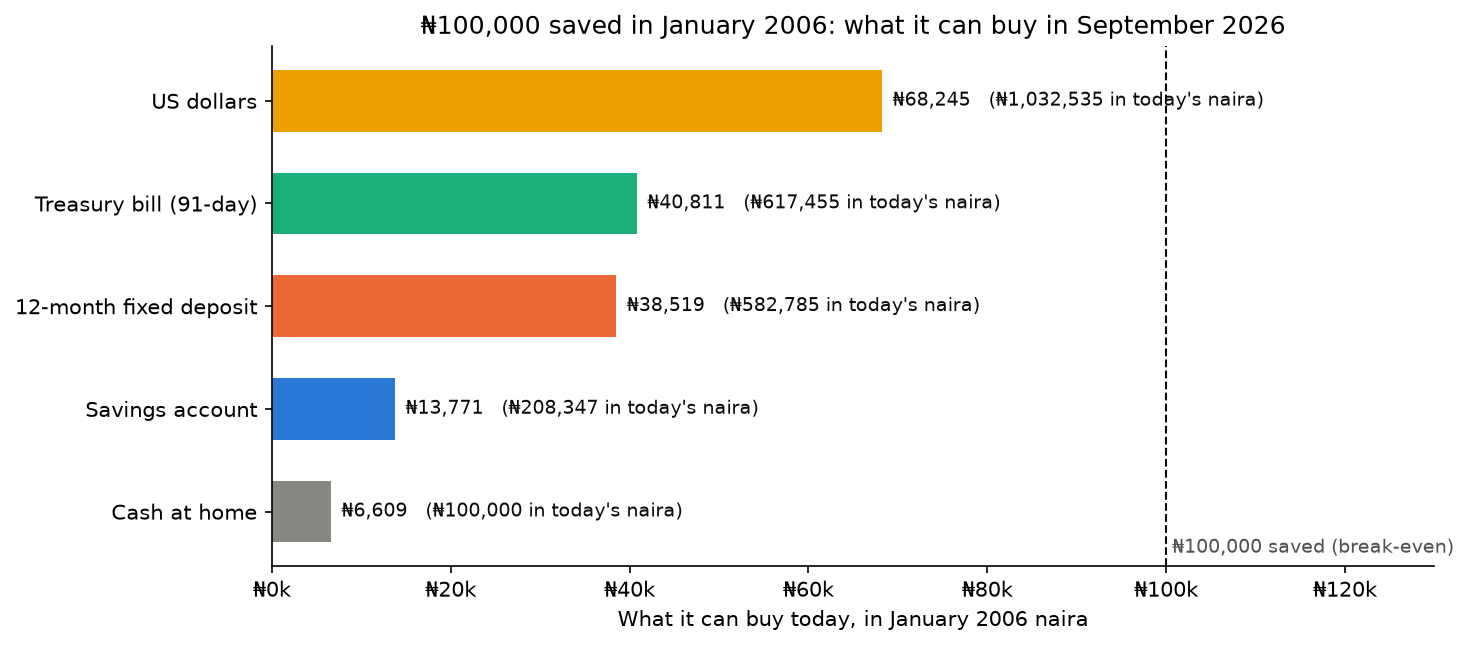
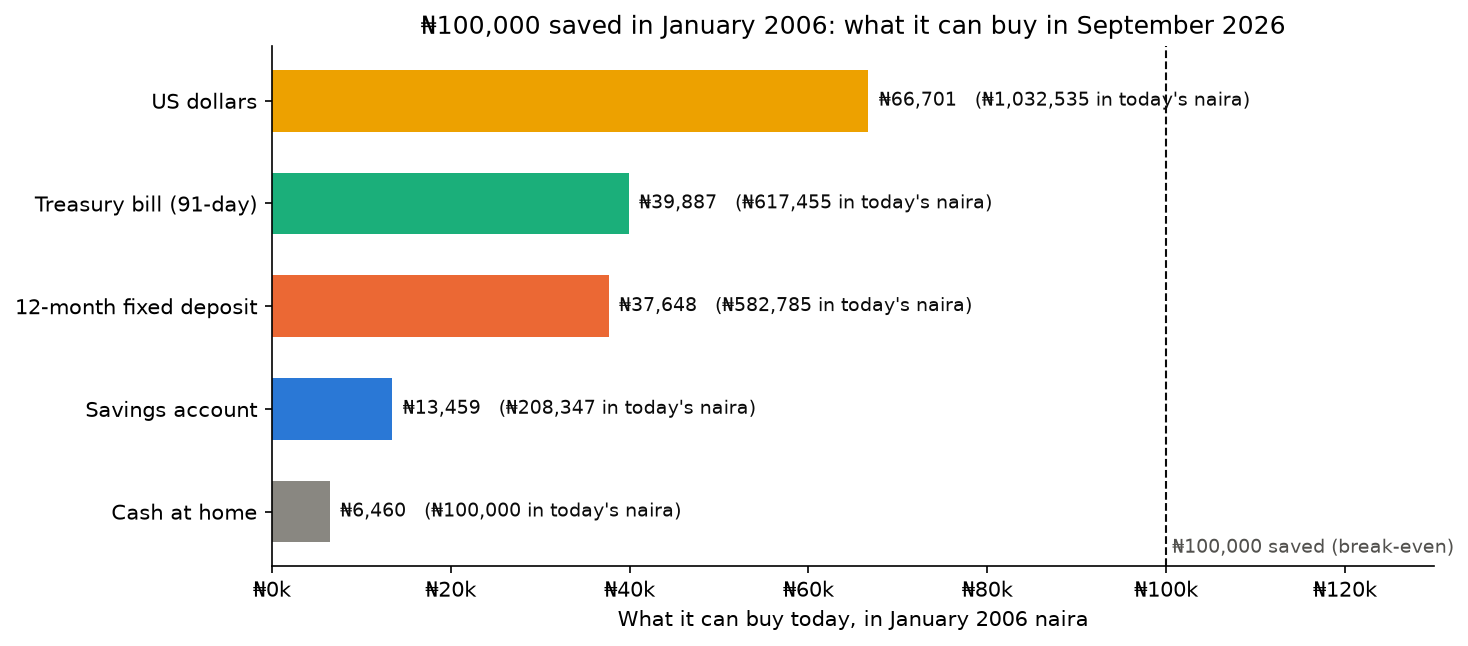
Use NBS's revised 2025 inflation (CBN feed) instead of first releases
On 15 Jan 2026 NBS published a revised CPI series correcting its 2025
rebasing, raising 2025 year-on-year inflation by about 3 points. The CBN
feed holds the revised figures, so the Phase 3 override with first-release
numbers is reverted. Only June 2025 (a copy of May in the feed) is
interpolated. Rebasing text, limitations, findings, summary, charts and
README are updated to the new numbers.

diff --git a/README.md b/README.md
@@ -17,15 +17,15 @@ and for how long.
 ## Key findings
 
 **No common way of saving kept its buying power from January 2006 to September 2026.**
-Prices rose about 15×, so you'd need about ₦1.5 million today to buy what ₦100,000 bought in 2006.
+Prices rose about 15.5×, so you'd need about ₦1.55 million today to buy what ₦100,000 bought in 2006.
 
 | ₦100,000 saved in Jan 2006 | Worth in naira (Sep 2026) | **What it can buy, in 2006 naira** | Real return per year |
 |---|---|---|---|
-| US dollars (cash) | ₦1,032,535 | **₦68,245** | −1.8% |
-| Treasury bills (91-day) | ₦617,455 | **₦40,811** | −4.2% |
-| 12-month fixed deposit | ₦582,785 | **₦38,519** | −4.5% |
-| Savings account | ₦208,347 | **₦13,771** | −9.1% |
-| Cash at home | ₦100,000 | **₦6,609** | −12.3% |
+| US dollars (cash) | ₦1,032,535 | **₦66,701** | −1.9% |
+| Treasury bills (91-day) | ₦617,455 | **₦39,887** | −4.3% |
+| 12-month fixed deposit | ₦582,785 | **₦37,648** | −4.6% |
+| Savings account | ₦208,347 | **₦13,459** | −9.2% |
+| Cash at home | ₦100,000 | **₦6,460** | −12.4% |
 
 1. **Savings paid less than inflation almost all the time.** Savings accounts had a negative
    real interest rate in **every one of 249 months**. Fixed deposits lost to inflation in 81% of
@@ -44,14 +44,14 @@ Prices rose about 15×, so you'd need about ₦1.5 million today to buy what ₦
 3. **Timing mattered, but no start month rescued a savings account.** Testing every start month
    with 1-, 3- and 5-year holds: savings accounts and cash never beat inflation. Fixed deposits beat
    it in only 1 of 189 five-year windows. Dollars beat it in 47% of five-year windows, but their
-   one-year results ranged from −29% to +160% depending only on the start month.
+   one-year results ranged from −31% to +160% depending only on the start month.
 
    ![Real return by start year and holding period](images/timing_heatmap.png)
 
-4. **The naira options never recovered.** Measured in buying power, cash fell 93% and savings
-   accounts 86% from their January 2006 starting point. Fixed deposits and T-bills peaked in 2008
-   and are still about 61–63% below that peak, 18 years later. Dollars fell 52%, took 18 years
-   to recover (Feb 2024), and have since fallen 48% again.
+4. **The naira options never recovered.** Measured in buying power, cash fell 93.5% and savings
+   accounts 86.5% from their January 2006 starting point. Fixed deposits and T-bills peaked in 2008
+   and are still about 62–64% below that peak, 18 years later. Dollars fell 52%, took 18 years
+   to recover (Feb 2024), and have since fallen 50% again.
 
    ![Worst fall from peak](images/worst_drawdown.png)
 
@@ -63,8 +63,8 @@ Prices rose about 15×, so you'd need about ₦1.5 million today to buy what ₦
    ![MPR vs the rates savers get](images/mpr_vs_rates.png)
 
 6. **Tax makes it a little worse.** With Nigeria's 10% withholding tax on interest, fixed deposits
-   keep about ₦32,500 of 2006 buying power instead of ₦38,500. The small positive real return on
-   Treasury bills since November 2025 turns slightly negative after tax.
+   keep about ₦31,800 of 2006 buying power instead of ₦37,600. The small positive real return on
+   Treasury bills since December 2025 turns slightly negative after tax.
 
 More charts are in [`images/`](images/), and every step is explained in the notebook.
 
@@ -89,14 +89,16 @@ More charts are in [`images/`](images/), and every step is explained in the note
 - **Approximate price index.** The CBN publishes inflation **rates** but no index feed, so the price
   index is built by turning each year-on-year rate into a monthly step, `(1 + yoy) ** (1/12) − 1`,
   and chaining them. It runs straight across the **January 2025 CPI rebasing** (chain-linked, not
-  restarted). A second method agrees on the 2006–2026 total within about 0.5%, but mid-period values
+  restarted). A second method agrees on the 2006–2026 total within about 0.2%, but mid-period values
   can differ by up to about 13%.
 
   ![Approximate price index](images/price_index.png)
 
-- **2025 inflation correction.** For January–November 2025 the CBN feed's inflation was about
-  3 points above the official National Bureau of Statistics (NBS) figures, and June repeated May.
-  Those 11 months were replaced with NBS figures from news reports of each release (sources below).
+- **2025 inflation revision.** The National Bureau of Statistics (NBS) rebasing in January 2025 used
+  December 2023 – November 2024 as its base period while labelling it "2024 = 100". On 15 January 2026,
+  NBS published a corrected series that raised every 2025 year-on-year rate by about 3 points (e.g.
+  November 2025: 14.45% first released, 17.33% revised). The CBN feed holds the **revised** figures,
+  which this project uses. News reports from 2025 quote the lower first releases.
 - **Official exchange rate only.** Before the June 2023 unification, many savers could only buy
   dollars on the parallel market at a weaker rate, and the official rate was often held flat for
   years. Dollar returns may be **understated**.
@@ -107,7 +109,8 @@ More charts are in [`images/`](images/), and every step is explained in the note
   from November 2025 on Treasury bills (after a 2011 exemption lapsed). It also shows a "10% every
   year" upper bound.
 - **Data fixes.** Fake zeros were treated as missing: the MPR before it existed (2006), and two
-  Treasury bill months (Dec 2017 and Dec 2018, filled with the previous month's rate).
+  Treasury bill months (Dec 2017 and Dec 2018, filled with the previous month's rate). June 2025
+  inflation, an exact copy of May in the feed, was interpolated between May and July.
 - **Patterns, not causes.** The policy section shows what happened together, not proof of cause and effect.
 
 ## Data sources
@@ -123,17 +126,10 @@ official API and could change or disappear, so the notebook saves a CSV snapshot
 | `https://www.cbn.gov.ng/api/GetAllExchangeRates` | Daily official exchange rates (averaged to monthly) |
 
 Other sources:
-- NBS 2025 inflation figures, as reported by
-  [NAN (Jan)](https://nannews.ng/nigerias-inflation-rate-declines-to-24-48-in-january-nbs/),
-  [Channels TV (Feb)](https://www.channelstv.com/2025/03/17/nigerias-inflation-drops-to-23-18-from-24-48),
-  [Nairametrics (Mar)](https://nairametrics.com/2025/04/15/nigerias-inflation-rate-rises-to-24-23-in-march-2025/),
-  [Ripples Nigeria (Apr–May)](https://www.ripplesnigeria.com/nigerias-inflation-rate-eases-to-22-97/),
-  [Arise (Jun)](https://www.arise.tv/nigerias-headline-inflation-rate-falls-to-22-22/),
-  [Nairametrics (Jul–Aug)](https://nairametrics.com/2025/09/15/nigerias-headline-inflation-eases-to-20-12-in-august-2025/),
-  [Guardian (Sep)](https://guardian.ng/news/nigeria/national/nigerias-inflation-drops-to-18-nbs/),
-  [NAN (Oct)](https://nannews.ng/nigerias-inflation-rate-eases-to-16-05-in-october-nbs/),
-  [NAN (Nov)](https://nannews.ng/nigerias-inflation-rate-eases-to-14-45-in-november-nbs/) and
-  [TechCabal (Dec, check only)](https://techcabal.com/2026/01/15/nigeria-2025-december-inflation-15-15-fewer-price-shocks/)
+- The January 2026 NBS revision of 2025 inflation:
+  [The NBS Backtracks (Stops and Gaps)](https://stopsandgaps.substack.com/p/the-nbs-backtracks),
+  [Arise: Teriba on the NBS inflation revision](https://www.arise.tv/teriba-nbs-inflation-revision-arbitrary-and-senseless-lacks-global-precedent),
+  [Vanguard: LCCI backs the revised CPI methodology](https://www.vanguardngr.com/2026/01/december-inflation-lcci-backs-nbs-on-revised-cpi-methodology/amp/)
 - MPR introduction in Dec 2006: [CBN monetary policy decisions, 2006](https://www.cbn.gov.ng/monetarypolicy/decisions/2006.asp)
 - Withholding tax:
   [SEC circular on the 2011 exemption order expiring](https://sec.gov.ng/circular-on-the-expiration-of-the-companies-income-tax-exemption-of-bonds-and-short-term-government-securities-order-2011),
